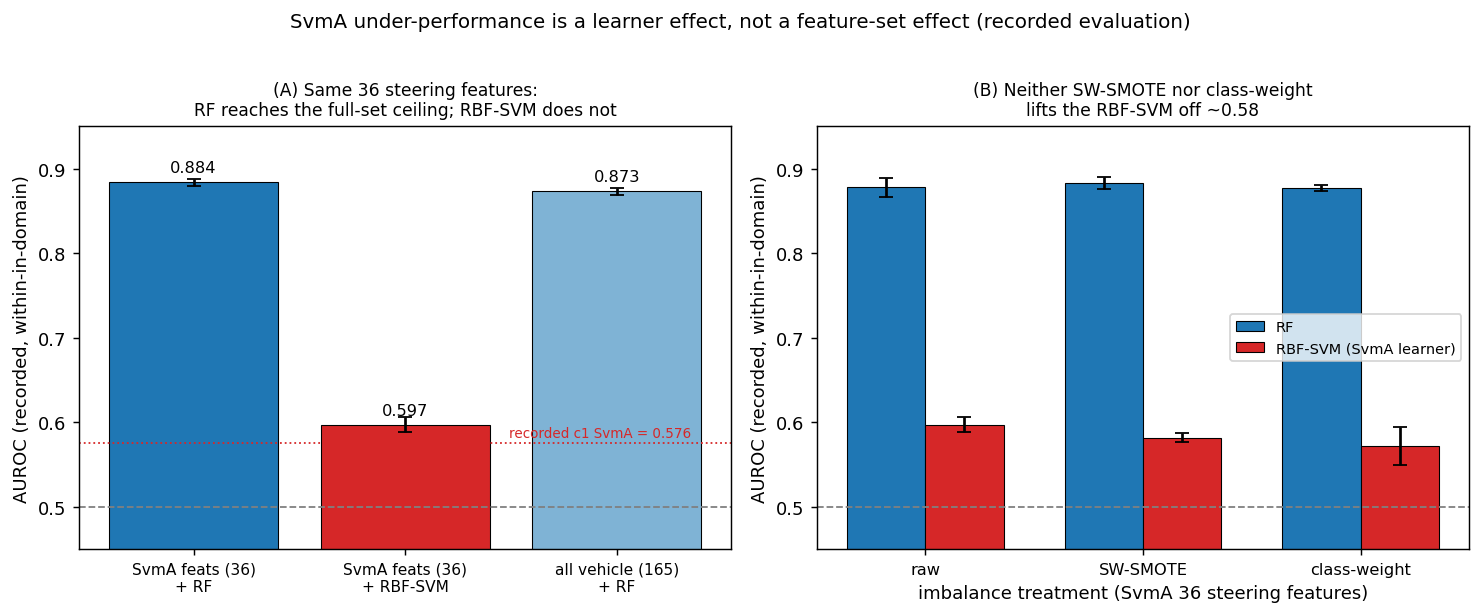
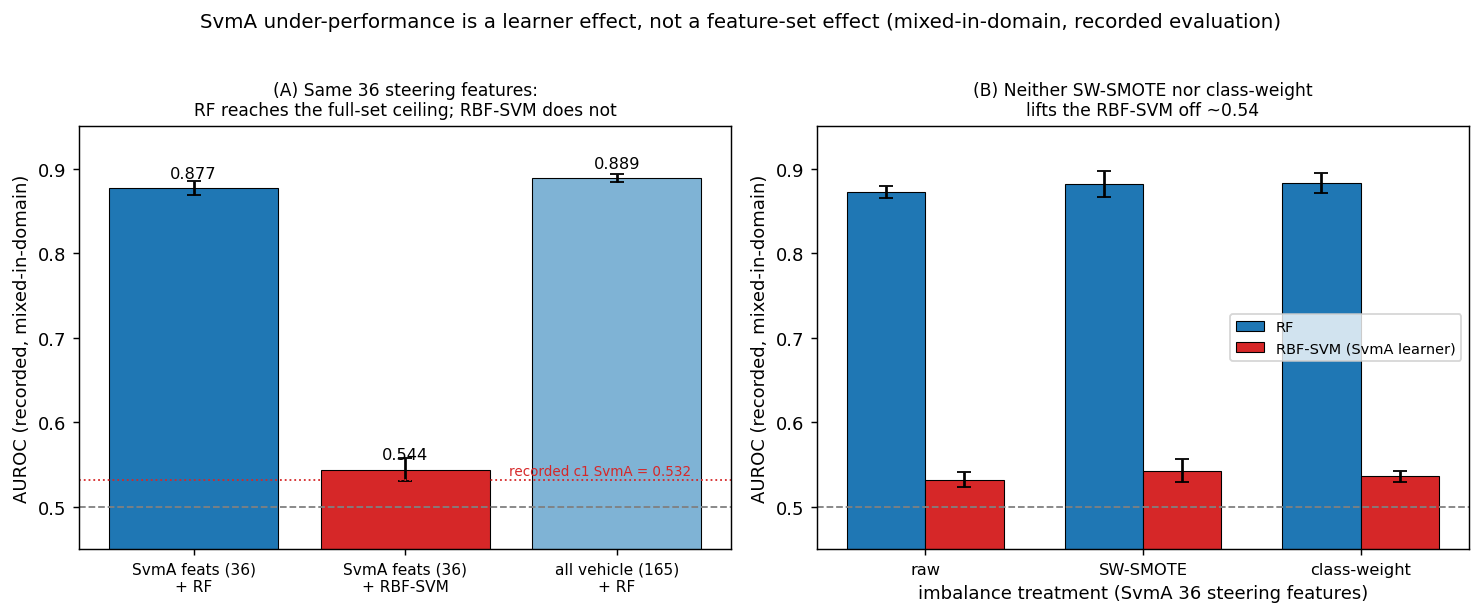
docs(exp3): record mixed-regime probe completion

diff --git a/docs/experiments/results/exp3-analysis/c1_recorded_value_analysis.md b/docs/experiments/results/exp3-analysis/c1_recorded_value_analysis.md
@@ -19,16 +19,16 @@ performance.
 - **Reproducibility:** `scripts/python/analysis/exp3_c1_recorded_value_analysis.py`. Tools:
   scipy / numpy / pandas / matplotlib (Dunn, Cliff's δ, Scheirer–Ray–Hare implemented in-script).
 
-> Note: Pooled-SW-SMOTE cells for SvmW/SvmA/RF-nofs have small provisional n (a seed
-> augmentation is in progress) and are marked with an asterisk.
+> **Status (2026-08-01).** The mixed-in Part B probes behind Figures 5–7 are complete. The
+> Pooled-SW-SMOTE and RF-nofs descriptive cells remain provisional while the final RF-nofs
+> extension completes (51/60 c1 cells at this checkpoint); regenerate the summary tables and
+> statistical tests after that final artifact set is available.
 
-> **PENDING MIGRATION — see [mixed_regime_migration.md](mixed_regime_migration.md).** The two
-> Within modes are being retired: `within` trains on the target group alone, discarding the other
-> group's data, which is not a deployable operating point. The regimes kept are Pooled and Mixed.
-> Sections A–E can be regenerated from the existing recorded values (Part A of that plan), but
-> D1b, D4 and the D5 RF probe are measured within-in-domain and require re-running under
-> mixed-in (Part B). Until Part B lands, treat the within columns and those three probes as the
-> values of a regime the analysis no longer intends to report.
+> **Migration in progress — see [mixed_regime_migration.md](mixed_regime_migration.md).** The two
+> Within modes are being retired because `within` trains only on the target group, discarding the
+> other group's data. The deployable regimes retained for reporting are Pooled and Mixed. The
+> Part B mechanism probes now use `mixed_in`; Part A will rebuild Sections A–E without the Within
+> columns once the RF-nofs seed extension is complete.
 
 ---
 
@@ -122,37 +122,24 @@ dependence **saturates by k≈20**, so it is not an open-ended benefit of ever-m
 
 ### D1b. Feature-count dose-response — where does the gain saturate?
 
-D1 uses only the two endpoints actually run (k=10, k=165). To locate the *shape* of the
-dependence, a controlled within-in-domain probe (plain RF, RF-importance top-k, recorded
-evaluation, 3 seeds) sweeps intermediate k, comparing two selection orders: choosing the top-k
-*after* SW-SMOTE (the c1 pipeline order) vs on the natural training data.
+The controlled probe is complete under **mixed-in-domain** evaluation (plain RF, RF-importance
+top-k, recorded evaluation, 3 seeds). It compares selecting top-k after SW-SMOTE (the c1 pipeline
+order) with selecting on the natural training data.
 
-| k | SW-SMOTE→select (c1 order) | select on natural data |
-|---:|:---:|:---:|
-| 5 | 0.725 | 0.858 |
-| 10 | 0.863 | 0.892 |
-| **20** | **0.887** | 0.891 |
-| 40 | 0.896 | 0.895 |
-| 80 | 0.899 | 0.885 |
-| 120 | 0.901 | 0.886 |
-| 165 | 0.895 | 0.882 |
+**The dependence is not monotone to 165 — it saturates by k≈20 in both selection orders.** The
+c1-order curve rises sharply before k=20 and stays around 0.90 thereafter; natural-data selection
+is already near that plateau by k=5–10. The recorded mixed-in anchors are RF-fs k=10 = 0.719 and
+RF-nofs k=165 = 0.829, which are not directly comparable to the simplified probe's absolute
+levels. The transferable result is the saturation shape, not the raw level.
 
-**The dependence is not monotone to 165 — it saturates by k≈20.** Almost all of the gain falls
-between k=5 and k≈20 (+0.16 for the c1-order curve); from k=20 to k=165 the recorded AUROC is flat
-within noise (0.887→0.895). The D1 endpoint gap (+0.13, k=10→165) therefore overstates a
-"feature-count" law: the same plateau (≈0.89) is already reached at k≈20, and the low RF-fs anchor
-(0.746) reflects that the c1 selection stage — which ranks features on SW-SMOTE-oversampled data,
-*before* the model is fit — picks a suboptimal top-10. Selecting on the natural training data
-instead reaches the plateau by k=5–10.
-
-Practical reading: **≈20 vehicle-dynamics features suffice to reach RF's recorded ceiling; the
-top-10 arm underperforms mainly because of the SMOTE-before-selection order, not because 10
-features are intrinsically too few.**
+Practical reading: **the mixed-in probe supports a compact feature set (approximately 20
+vehicle-dynamics features); the top-10 arm's low recorded value is primarily consistent with the
+SMOTE-before-selection order rather than with ten features being intrinsically insufficient.**
 
 ![RF feature-count dose-response](figures/c1_recorded/fig5_feature_dose_response.png)
 
-*Figure 5. Recorded within-in-domain AUROC vs feature count k. Both selection orders plateau by
-k≈20; the recorded c1 anchors (RF-fs k=10 = 0.746 ★, RF-nofs k=165 = 0.874 ◆) bracket the curve.
+*Figure 5. Recorded mixed-in-domain AUROC vs feature count k. Both selection orders plateau by
+k≈20; the recorded c1 anchors (RF-fs k=10 = 0.719 ★, RF-nofs k=165 = 0.829 ◆) bracket the curve.
 Probe = plain RF with fixed hyperparameters and a simplified evaluation split, so absolute levels
 are not directly comparable to the tuned c1 pipeline; the saturation shape is what transfers.*
 
@@ -201,29 +188,23 @@ SvmA records the lowest AUROC of all methods (A: 0.53–0.60 within/mixed; 0.481
 recorded-value basis the cause is the *learner*, not the steering feature set and not class
 imbalance.
 
-**Same features, different learner (recorded within-in-domain).** SvmA's own 36 steering features
-fed to RF reach 0.884 — essentially identical to the full 165-feature vehicle set (0.873) — whereas
-an RBF-SVM (SvmA's learner) on the same 36 features gives only 0.597, matching SvmA's recorded
-within-in AUROC (0.576, A). The steering feature set is therefore not the bottleneck under the
-recorded protocol: it yields as much recorded separability as the full set when a tree ensemble
-reads it; the RBF-SVM cannot.
+**Same features, different learner (recorded mixed-in-domain).** SvmA's own 36 steering features
+fed to RF reach 0.877, close to the full 165-feature vehicle set (0.889), whereas an RBF-SVM
+(SvmA's learner) on the same 36 features gives only 0.544, matching the recorded SvmA mixed-in
+band (0.532, A). The steering feature set is therefore not the bottleneck under the recorded
+protocol: it yields as much recorded separability as the full set when a tree ensemble reads it;
+the RBF-SVM cannot.
 
 | Feature set → learner | Recorded AUROC |
 |---|---|
-| SvmA 36 steering → RF | 0.884 |
-| SvmA 36 steering → RBF-SVM | 0.597 |
-| all 165 vehicle → RF | 0.873 |
+| SvmA 36 steering → RF | 0.877 |
+| SvmA 36 steering → RBF-SVM | 0.544 |
+| all 165 vehicle → RF | 0.889 |
 
-**Imbalance treatment does not lift the SVM.** Under the recorded split, neither SW-SMOTE nor
-class weighting moves the RBF-SVM off ~0.58 (0.597 → 0.582 → 0.572), while RF stays ~0.88 across the
-same treatments — so class imbalance is not the cause of SvmA's low score either. (Domain shift is
-likewise not the driver: within-domain SvmA already sits at 0.53–0.60, A.)
-
-| Imbalance treatment (36 steering feats) | RF | RBF-SVM |
-|---|---|---|
-| raw | 0.878 | 0.597 |
-| SW-SMOTE | 0.883 | 0.582 |
-| class-weight | 0.877 | 0.572 |
+**Imbalance treatment does not lift the SVM.** Under the mixed-in recorded split, neither
+SW-SMOTE nor class weighting moves the RBF-SVM off approximately 0.54, while RF stays around
+0.87–0.88 across the same treatments. Class imbalance is therefore not the cause of SvmA's low
+score in this regime.
 
 **SvmA's bottom rank is thus a learner limitation** (RBF-SVM on steering features), not a deficient
 feature set and not an imbalance artefact — unlike SvmW, whose Pooled degeneracy *is* a
@@ -231,10 +212,10 @@ decision-function artefact that SW-SMOTE repairs (D2).
 
 ![SvmA learner vs feature effect](figures/c1_recorded/fig6_svma_learner_vs_feature.png)
 
-*Figure 6. Recorded within-in-domain AUROC. (A) The same 36 steering features reach the full-set
-ceiling under RF (0.884 vs 0.873) but only 0.597 under the RBF-SVM that SvmA uses (≈ its recorded
-c1 value 0.576). (B) Neither SW-SMOTE nor class weighting lifts the RBF-SVM off ~0.58, while RF
-stays ~0.88. Probe = plain learners on a recorded-style split; the learner contrast is the point.*
+*Figure 6. Recorded mixed-in-domain AUROC. (A) The same 36 steering features reach the full-set
+ceiling under RF (0.877 vs 0.889) but only 0.544 under the RBF-SVM that SvmA uses (≈ its recorded
+c1 value 0.532). (B) Neither SW-SMOTE nor class weighting lifts the RBF-SVM off ~0.54, while RF
+stays ~0.87–0.88. Probe = plain learners on a recorded-style split; the learner contrast is the point.*
 
 ### D5. SvmW under imbalance: a recoverable learner degeneracy, not a feature deficit
 
@@ -254,8 +235,8 @@ modes (A).
 | +SW-SMOTE | 0.684 | 0.504 | 0.506 | 0.199 |
 
 **The features carry the signal.** The failure is the SVM's, not the feature set's: feeding SvmW's
-8 steering-wheel wavelet features to RF (recorded-style, within-in) gives ~0.87 under *every*
-imbalance treatment — raw 0.871, SW-SMOTE 0.870, class-weight 0.873 (Fig 7B) — so a robust learner
+8 steering-wheel wavelet features to RF (recorded-style, mixed-in) gives ~0.87 under *every*
+imbalance treatment — raw 0.877, SW-SMOTE 0.858, class-weight 0.871 (Fig 7B) — so a robust learner
 reads the recorded signal from them without any rebalancing, and once imbalance is handled the SVM
 itself reaches 0.74–0.80. SvmW's low Pooled score is therefore a *recoverable* decision-function
 degeneracy under imbalance — the mirror image of SvmA, whose low score is a learner ceiling that
@@ -266,7 +247,7 @@ rebalancing does not lift (D4).
 *Figure 7. (A) Recorded SvmW AUROC by regime: Pooled-base collapses to ~0.52 (all-positive),
 SW-SMOTE recovers it to 0.684, and with SW-SMOTE the Within/Mixed modes reach 0.74–0.80. (B) The
 same 8 steering-wheel wavelet features fed to RF reach ~0.87 under every imbalance treatment (raw
-0.871, SW-SMOTE 0.870, class-weight 0.873) — a robust learner reads the recorded signal without
+0.877, SW-SMOTE 0.858, class-weight 0.871) — a robust learner reads the recorded signal without
 rebalancing, so SvmW's collapse is a learner–imbalance interaction, not a feature deficit. (The
 de-degeneration metrics — specificity 0.004→0.504, predicted-positive rate 0.997→0.506, probability
 SD 0.001→0.199 — are tabulated above.)*

diff --git a/docs/experiments/results/exp3-analysis/within_retirement_plan.md b/docs/experiments/results/exp3-analysis/within_retirement_plan.md
@@ -1,8 +1,9 @@
 # exp3 — Migration of the Recorded-Value Analysis to the Pooled/Mixed Regimes
 
-**Status: OPEN.** Part A is a re-analysis of existing results and can be done now. Part B needs
-new probe runs. The TIV2026_exp3 manuscript is blocked on Part B and will be revised in one pass
-once the new values land.
+**Status: IN PROGRESS (2026-08-01).** Part B is complete: its three mechanism probes have been
+re-run under `mixed_in` and are reflected in Figures 5–7. Part A remains pending until the active
+RF-nofs seed extension completes and the recorded-value aggregation can be regenerated. The
+TIV2026_exp3 manuscript will be revised in one pass from that finalized public artifact set.
 
 ## 1. Decision and rationale
 
@@ -60,50 +61,33 @@ Note on §E: with only two modes left the "the domain sub-modes do not differ" r
 much weaker design than the current 4-mode one. Report the new df and p honestly; if the mode
 effect is no longer estimable in a useful way, say so rather than restating the old conclusion.
 
-## 3. Part B — new probe runs required
+## 3. Part B — mixed-in probe runs completed
 
-Three probes are currently measured **within-in-domain** and must be re-measured under
-**mixed-in** (mixed-out optional but preferred, so that both target groups are covered). Keep the
-probe harness otherwise identical — same plain learners, same fixed hyperparameters, same
-simplified split, same seed count — so that only the mode changes.
+The three probes were re-run under **mixed-in** using the same plain-learner harness, fixed
+hyperparameters, simplified split, and seed count. Figures 5–7 now contain these mixed-in values.
 
 ### B1. Feature-count dose–response (report §D1b, Fig. 5)
 
-- **Current**: within-in-domain, plain RF with fixed hyperparameters, 3 seeds, recorded
-  evaluation. Sweep k ∈ {5, 10, 20, 40, 80, 120, 165}, two selection orders — top-k chosen
-  *after* SW-SMOTE (the c1 pipeline order) and top-k chosen on the natural training data.
-- **Needed**: identical sweep under `mixed_in`.
-- **Recorded anchors change**: the current figure anchors on RF-fs k=10 = 0.746 and RF-nofs
-  k=165 = 0.874 (within-in). Under mixed-in they become **0.719** and **0.829**; under mixed-out,
-  **0.749** and **0.891**.
-- **Load-bearing claim**: the gain saturates by k ≈ 20, and the low top-10 arm is mostly an
-  artifact of selecting features on SW-SMOTE-oversampled data rather than of ten being too few.
+- **Result**: both selection orders plateau by k≈20 under mixed-in. The recorded anchors are
+  RF-fs k=10 = 0.719 and RF-nofs k=165 = 0.829. The mechanism claim is retained: the low top-10
+  arm is primarily consistent with selecting features after SW-SMOTE rather than with ten
+  features being intrinsically insufficient.
 
 ### B2. SvmA learner-versus-feature-set probe (report §D4, Fig. 6)
 
-- **Current** (within-in-domain, recorded evaluation):
-
-  | Feature set → learner | AUROC |
-  |---|---|
-  | SvmA 36 steering → RF | 0.884 |
-  | SvmA 36 steering → RBF-SVM | 0.597 |
-  | all 165 vehicle → RF | 0.873 |
-
-  and, on the 36 steering features, imbalance treatments raw / SW-SMOTE / class-weight giving
-  RF 0.878 / 0.883 / 0.877 against RBF-SVM 0.597 / 0.582 / 0.572.
-- **Needed**: both panels under `mixed_in`.
-- **Load-bearing claim**: SvmA's bottom rank is a learner ceiling, not a feature-set deficit and
-  not an imbalance artifact. The RF-versus-RBF-SVM gap on identical features is the whole result.
+- **Result**: on the same 36 steering features, RF = 0.877 and RBF-SVM = 0.544; RF on all 165
+  vehicle features = 0.889. Across raw, SW-SMOTE, and class-weight treatments, RF remains
+  ~0.87–0.88 while RBF-SVM remains ~0.54.
+- **Conclusion retained**: SvmA's bottom rank is a learner ceiling, not a feature-set deficit or
+  imbalance artifact.
 
 ### B3. SvmW wavelet-feature probe (report §D5, Fig. 7 panel B)
 
-- **Current** (within-in-domain, recorded evaluation): SvmW's own 8 GHM steering-wheel wavelet
-  band energies fed to RF give ≈0.87 under every imbalance treatment — raw 0.871, SW-SMOTE 0.870,
-  class-weight 0.873.
-- **Needed**: same three bars under `mixed_in`.
-- **Load-bearing claim**: a learner that does not degenerate reads the recorded signal from these
-  features with no rebalancing, so SvmW's pooled collapse is a learner–imbalance interaction
-  rather than a feature deficit.
+- **Result**: SvmW's 8 GHM steering-wavelet features fed to RF give raw 0.877, SW-SMOTE 0.858,
+  and class-weight 0.871 under mixed-in.
+- **Conclusion retained**: a learner that does not degenerate reads the recorded signal from
+  these features without rebalancing, so SvmW's pooled collapse is a learner–imbalance
+  interaction rather than a feature deficit.
 
 ## 4. What is unaffected
 
@@ -128,11 +112,11 @@ is in doubt — but the following would change the paper's claims and must be re
 - **B3**: if RF no longer reads ≈0.87 from SvmW's 8 wavelet features, the "not a feature deficit"
   half of the SvmW conclusion is lost.
 
-## 6. Deliverables when Part B completes
+## 6. Remaining deliverables
 
-1. Re-run Part A and regenerate `c1_recorded_value_analysis.md` §A–§E and figures 1–4 without the
-   within modes.
-2. Replace the §D1b, §D4, §D5 tables and figures 5–7 with the mixed-in measurements.
+1. After RF-nofs reaches 15 seeds in every c1 cell, re-run Part A and regenerate
+  `c1_recorded_value_analysis.md` §A–§E and figures 1–4 without the within modes.
+2. Retain the completed mixed-in measurements in §D1b, §D4, §D5 and Figures 5–7.
 3. Update the manuscript in `TIV2026_exp3/` in a single pass: drop the within columns from
    Table III, re-anchor the domain-restriction contrast to pooled → mixed, and re-point the
    mechanism subsections at the new probe values. The regime-scoped headline of §1.1 above is
